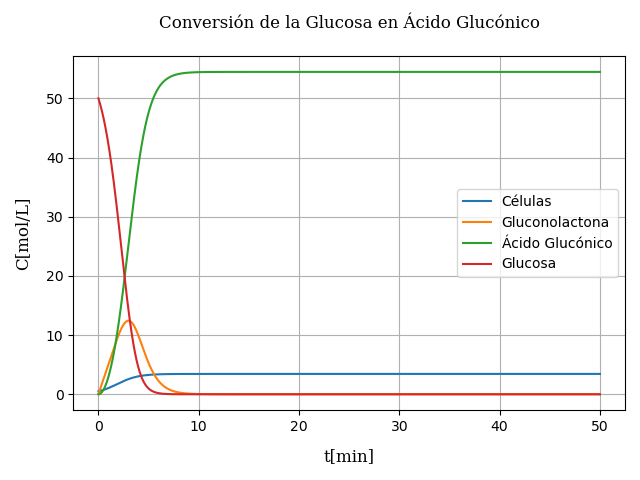
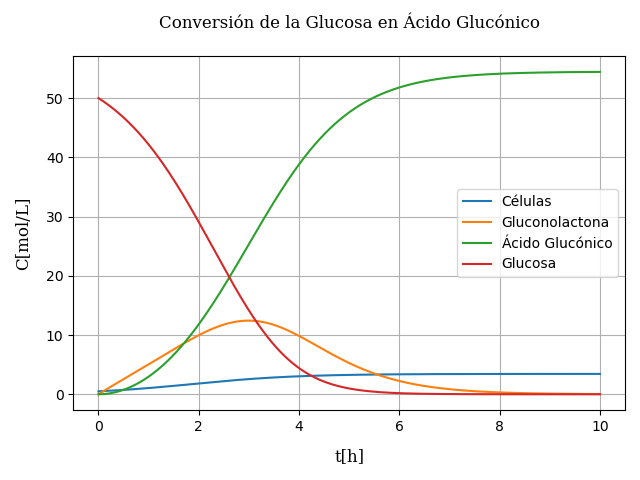
Corrigiendo artículod e rk4 con numpy

diff --git a/src/blog/2022-09-07-runge-kutta-con-numpy.md b/src/blog/2022-09-07-runge-kutta-con-numpy.md
@@ -140,7 +140,7 @@ $$
 H_2O_2\Longrightarrow H_2O+1/2O_2
 $$
 
-Un modelos matemático de la fermentación de la bacteria _Pseudomonas Ovali_, el cuál produce ácido glucónico, ha sido desarrolaldo pro RAI y sus colaboradores. este modelo, el cual describe la dinámica en la fase logaritmica, puede ser descrito como sigue:
+Un modelos matemático de la fermentación de la bacteria _Pseudomonas Ovali_, el cuál produce ácido glucónico, ha sido desarrolaldo pro Rai y Constatinides, este modelo, el cual describe la dinámica en la fase logaritmica, puede ser descrito como sigue:
 
 Velocidad de crecimiento celular
 $$
@@ -172,7 +172,7 @@ $b_1-b_5$: Parámetros que son función de la temperatura y el pH.
 Las condicionas de operaciónson 30°C y el pH 6.6, para los cuales los parámetros son:
 $b_1=0.949$; $\space\space b_2=3.439$; $\space\space b_3=18.72$; $\space\space b_4=37.51$; $\space\space b_5= 1.169$.
 
-Con los datos proporcionados halle las concentraciones en el rango de 0h a 50h. Si las condiciones iniciales son:
+Con los datos proporcionados halle las concentraciones en el rango de 0h a 10h. Si las condiciones iniciales son:
 
 $y_1(0) = 0.5 \space U.O.D./mL$; $\space\space y_2(0)=0.0mg/mL$: $\space\space y_3(0)=0.0 mg/mL$; $\space\space y_4(0)=50.0 mg/mL$
 
@@ -213,7 +213,9 @@ def glucosa2ac_gluconico(Y):
 
 
 # Resolvemos el sistema de ecuaciones diferenciales con rk4
-rango_t = [0, 50]
+# Aunque las unidades de las constantes no nos la dan, podemos azumir que son 
+# compatibles con las unidades de tiempo en horas
+rango_t = [0, 10]
 h = 0.01
 t = np.arange(rango_t[0], rango_t[1] + h, h)
 # Definimos las condiciones iniciales
@@ -234,7 +236,7 @@ plt.plot(t, Y[:, 2], label="Ácido Glucónico")
 plt.plot(t, Y[:, 3], label="Glucosa")
 plt.legend(loc=5)
 plt.title("Conversión de la Glucosa en Ácido Glucónico", fontdict=font, pad=20)
-plt.xlabel("t[min]", labelpad=10, fontdict=font)
+plt.xlabel("t[h]", labelpad=10, fontdict=font)
 plt.ylabel("C[mol/L]", labelpad=10, fontdict=font)
 plt.grid()
 plt.show()
